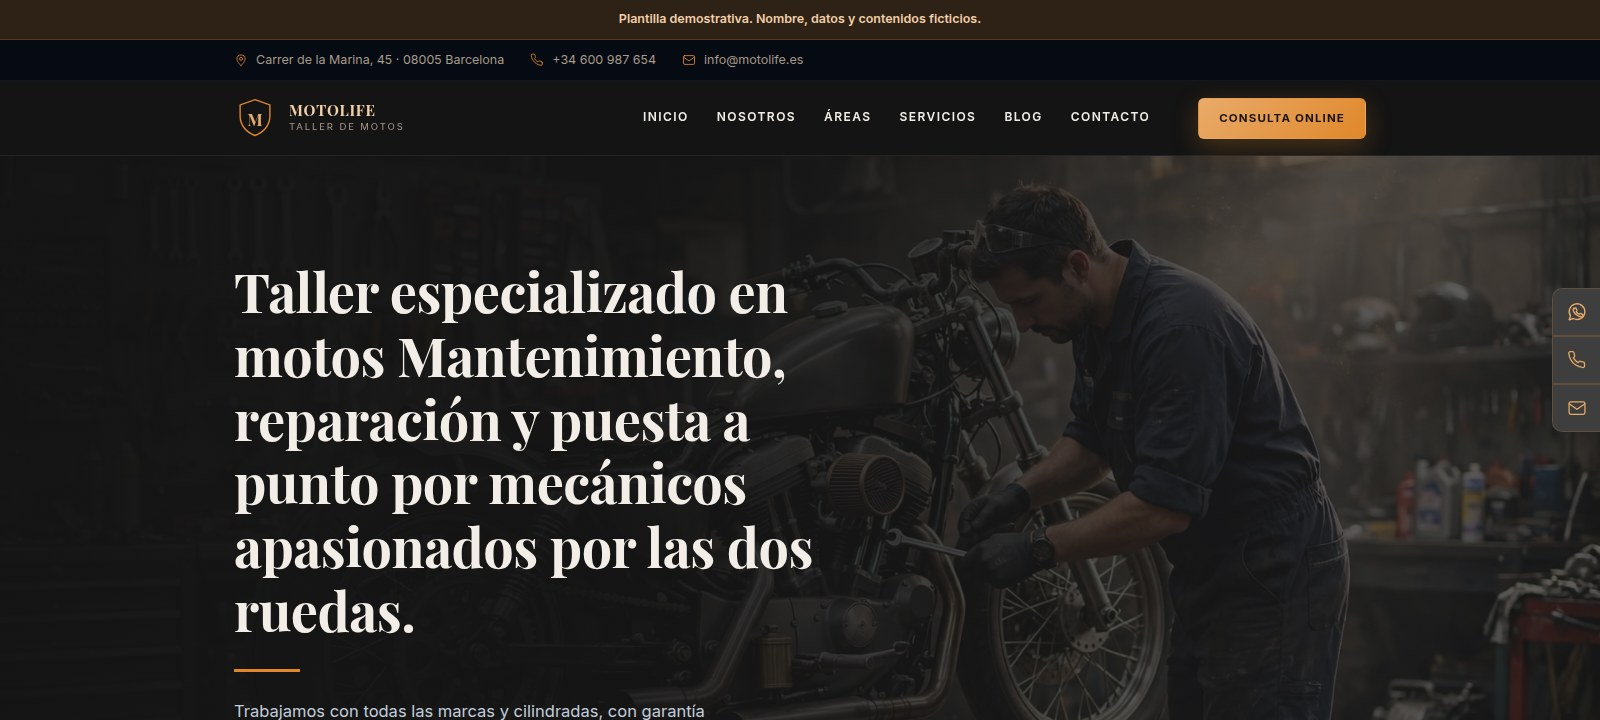
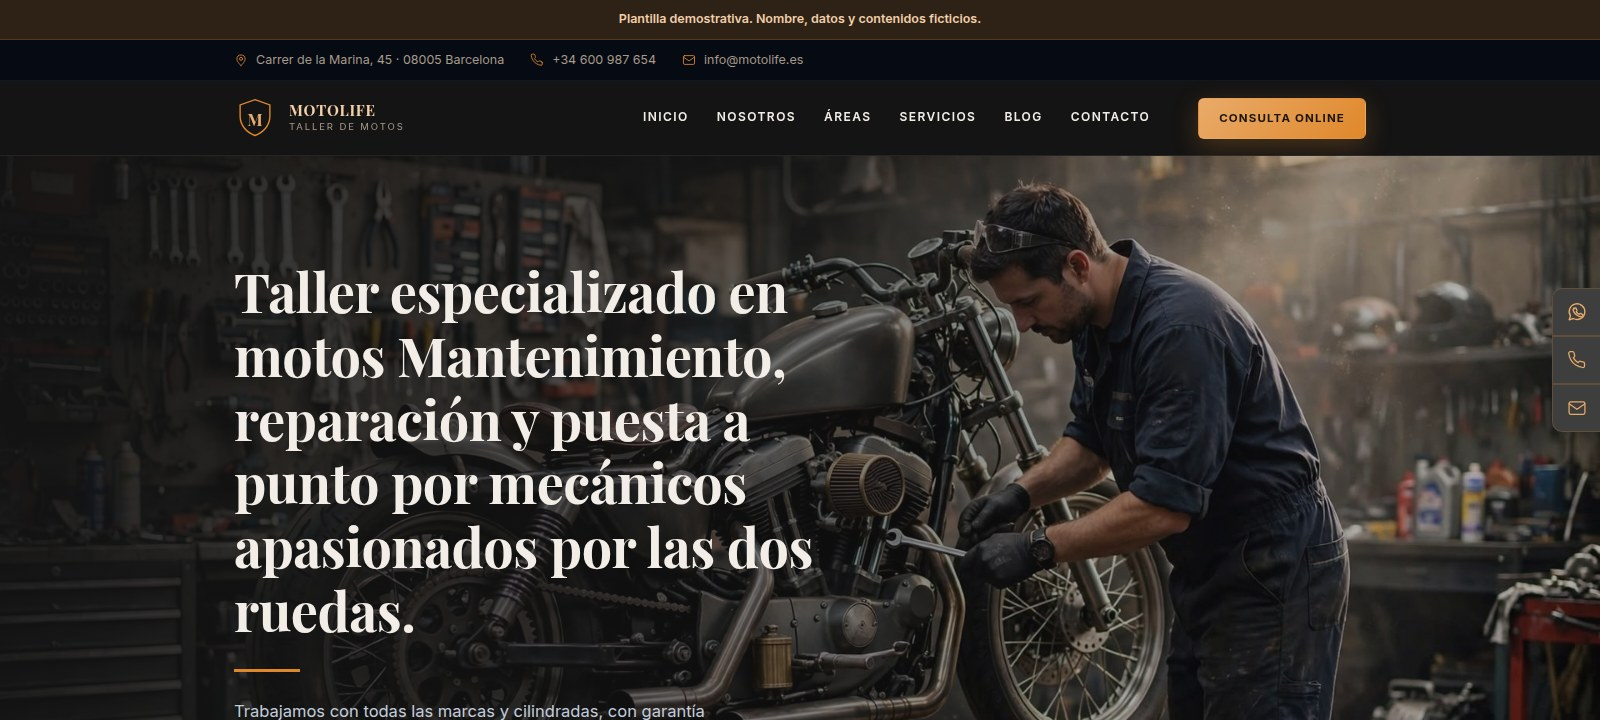
Aclara la foto de portada en Taller Motos, Aurora Dental y Fauna Pet Shop
Corrige el mismo bug ya resuelto antes en Inmobiliaria/Consultoría Legal
y en Taller Mecánico, que no se había propagado a los productos clonados
después: la foto de portada estaba casi invisible bajo un degradado muy
oscuro (opacidad .42 + overlay hasta .97). Ahora usa opacidad .8 y un
degradado más suave, sin tocar ningún color de marca.

Claude-Session: https://claude.ai/code/session_01GH4UBwAk37e4FV2NGANpez

diff --git a/public/demos/clinica-dental-premium/css/style.css b/public/demos/clinica-dental-premium/css/style.css
@@ -142,9 +142,9 @@ h3{font-size:20px;}
 /* ---------------- Portada ---------------- */
 .portada{position:relative;overflow:hidden;padding:0;background:var(--noche-2);}
 .portada-fondo{position:absolute;inset:0;}
-.portada-fondo img{width:100%;height:100%;object-fit:cover;object-position:center right;opacity:.42;}
+.portada-fondo img{width:100%;height:100%;object-fit:cover;object-position:center right;opacity:.8;}
 .portada-vel{position:absolute;inset:0;
-  background:linear-gradient(100deg,rgba(var(--noche-rgb),.97) 0%,rgba(var(--noche-rgb),.9) 38%,rgba(var(--noche-rgb),.42) 68%,rgba(var(--noche-rgb),.2) 100%);}
+  background:linear-gradient(100deg,rgba(var(--noche-rgb),.92) 0%,rgba(var(--noche-rgb),.65) 38%,rgba(var(--noche-rgb),.2) 68%,rgba(var(--noche-rgb),.04) 100%);}
 .portada-in{position:relative;z-index:2;padding:104px 0 96px;max-width:640px;}
 .portada h1{font-size:clamp(31px,4.6vw,54px);margin-bottom:26px;}
 .portada .raya{width:66px;height:3px;background:var(--oro);margin-bottom:26px;}

diff --git a/public/demos/fauna-pet-shop/css/style.css b/public/demos/fauna-pet-shop/css/style.css
@@ -142,9 +142,9 @@ h3{font-size:20px;}
 /* ---------------- Portada ---------------- */
 .portada{position:relative;overflow:hidden;padding:0;background:var(--noche-2);}
 .portada-fondo{position:absolute;inset:0;}
-.portada-fondo img{width:100%;height:100%;object-fit:cover;object-position:center right;opacity:.42;}
+.portada-fondo img{width:100%;height:100%;object-fit:cover;object-position:center right;opacity:.8;}
 .portada-vel{position:absolute;inset:0;
-  background:linear-gradient(100deg,rgba(var(--noche-rgb),.97) 0%,rgba(var(--noche-rgb),.9) 38%,rgba(var(--noche-rgb),.42) 68%,rgba(var(--noche-rgb),.2) 100%);}
+  background:linear-gradient(100deg,rgba(var(--noche-rgb),.92) 0%,rgba(var(--noche-rgb),.65) 38%,rgba(var(--noche-rgb),.2) 68%,rgba(var(--noche-rgb),.04) 100%);}
 .portada-in{position:relative;z-index:2;padding:104px 0 96px;max-width:640px;}
 .portada h1{font-size:clamp(31px,4.6vw,54px);margin-bottom:26px;}
 .portada .raya{width:66px;height:3px;background:var(--oro);margin-bottom:26px;}

diff --git a/public/demos/taller-motos-premium/css/style.css b/public/demos/taller-motos-premium/css/style.css
@@ -142,9 +142,9 @@ h3{font-size:20px;}
 /* ---------------- Portada ---------------- */
 .portada{position:relative;overflow:hidden;padding:0;background:var(--noche-2);}
 .portada-fondo{position:absolute;inset:0;}
-.portada-fondo img{width:100%;height:100%;object-fit:cover;object-position:center right;opacity:.42;}
+.portada-fondo img{width:100%;height:100%;object-fit:cover;object-position:center right;opacity:.8;}
 .portada-vel{position:absolute;inset:0;
-  background:linear-gradient(100deg,rgba(var(--noche-rgb),.97) 0%,rgba(var(--noche-rgb),.9) 38%,rgba(var(--noche-rgb),.42) 68%,rgba(var(--noche-rgb),.2) 100%);}
+  background:linear-gradient(100deg,rgba(var(--noche-rgb),.92) 0%,rgba(var(--noche-rgb),.65) 38%,rgba(var(--noche-rgb),.2) 68%,rgba(var(--noche-rgb),.04) 100%);}
 .portada-in{position:relative;z-index:2;padding:104px 0 96px;max-width:640px;}
 .portada h1{font-size:clamp(31px,4.6vw,54px);margin-bottom:26px;}
 .portada .raya{width:66px;height:3px;background:var(--oro);margin-bottom:26px;}
